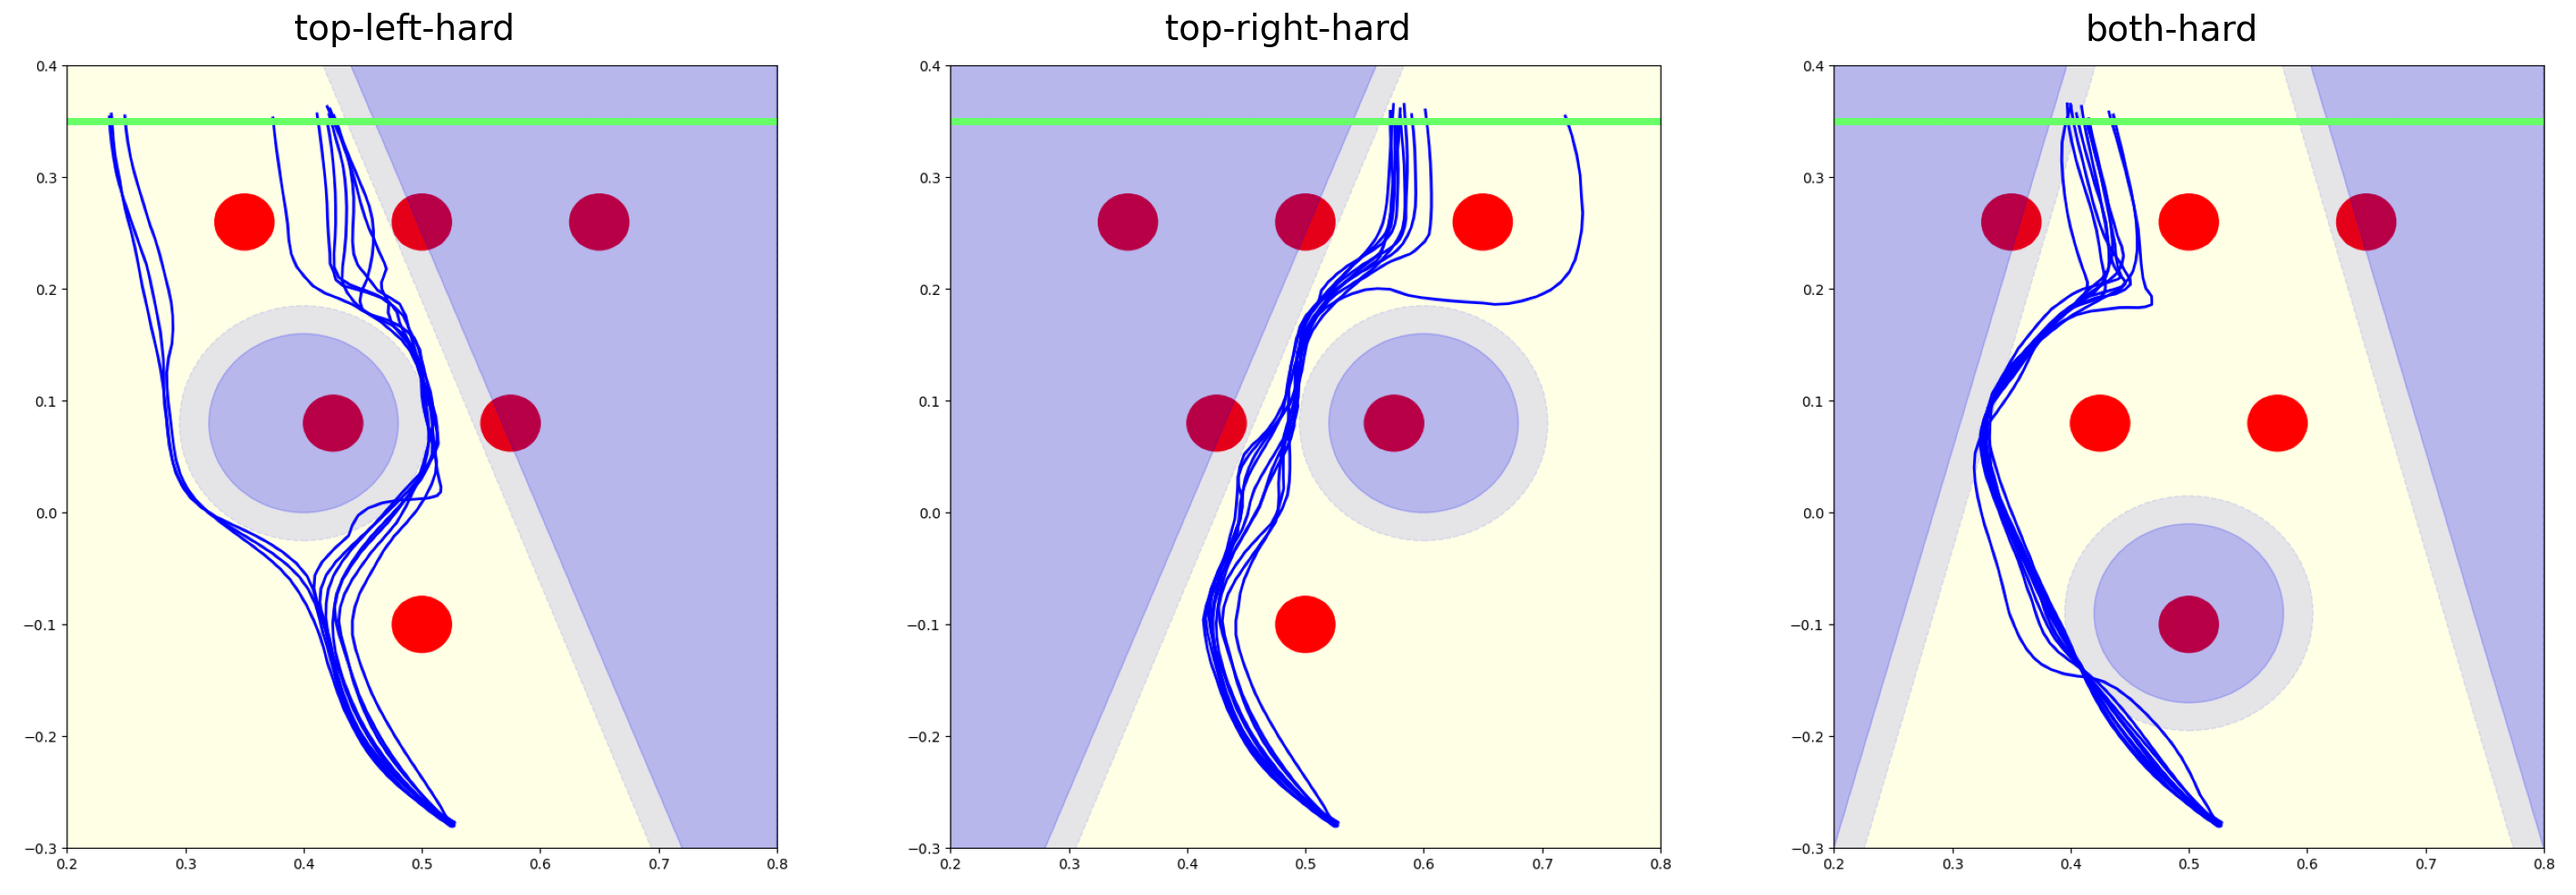
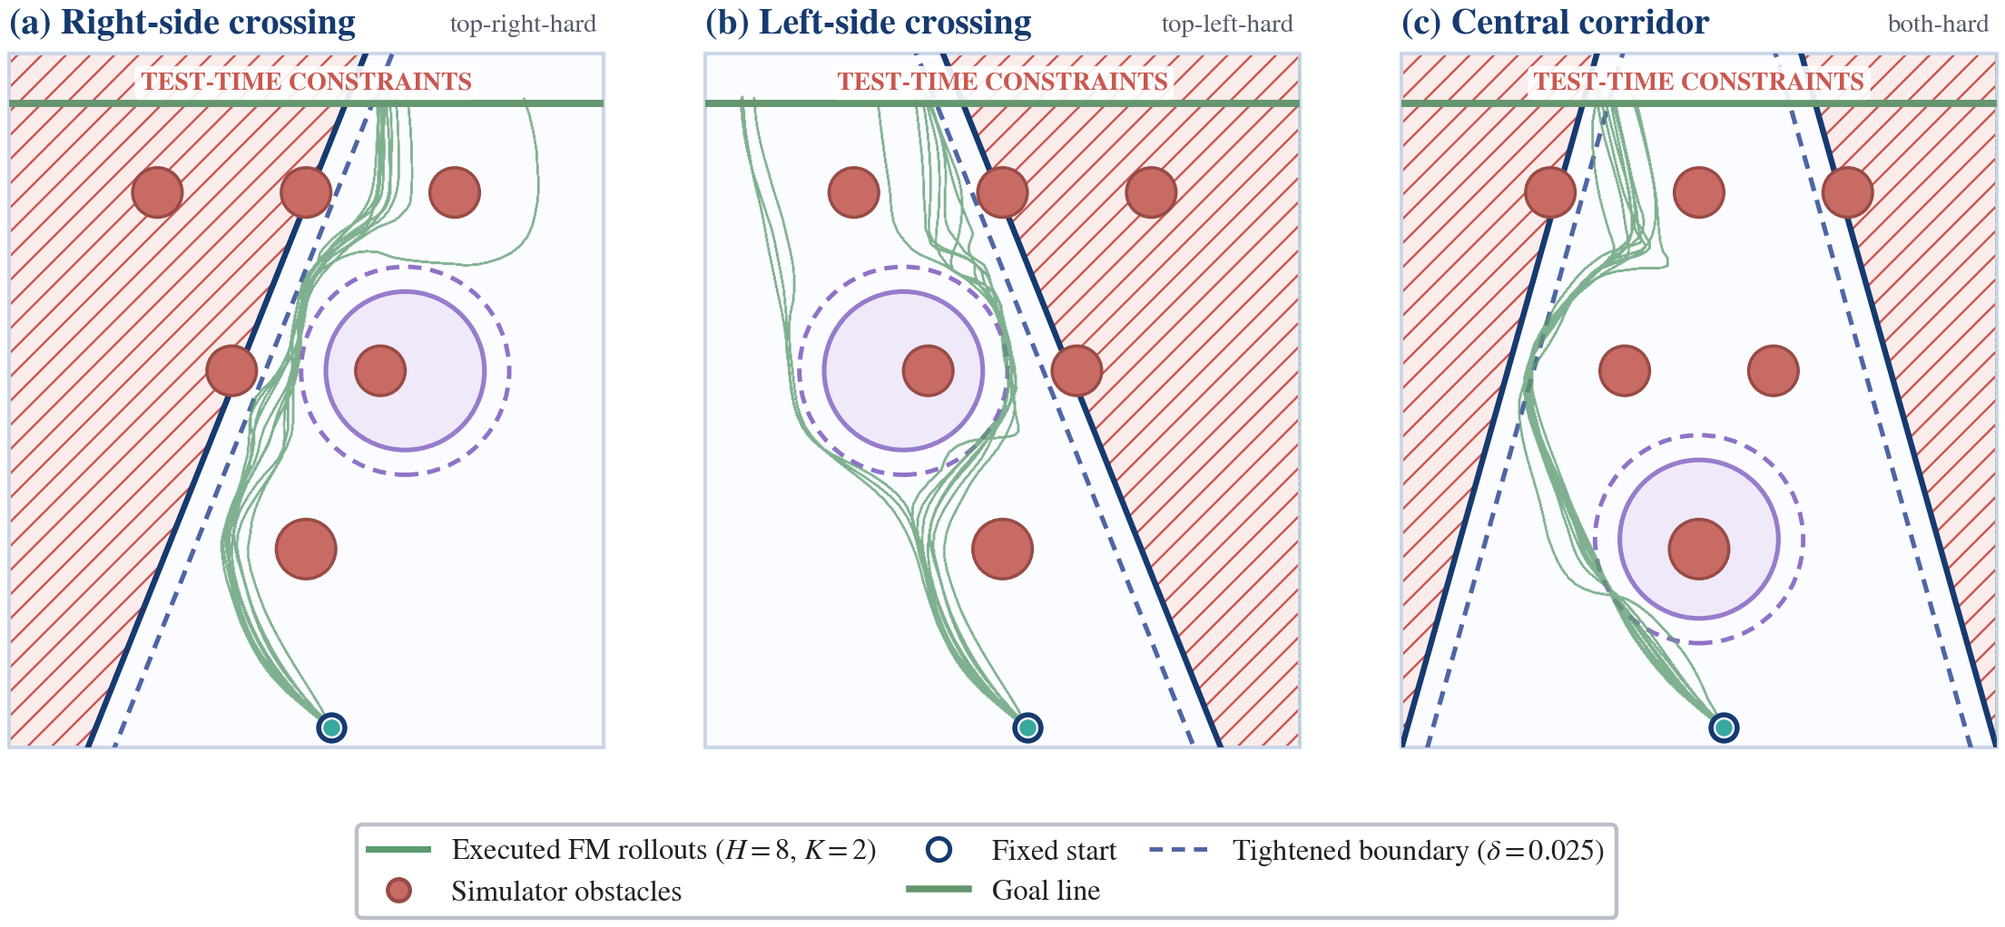
Polish thesis experiment figures

diff --git a/scripts/plot_traj_fm_k2.py b/scripts/plot_traj_fm_k2.py
@@ -1,23 +1,152 @@
-import os
+#!/usr/bin/env python
+"""Restyle the retained FM K=2 rollout traces for the three test scenes.
+
+The evaluator keeps a compact plot of up to ten executed rollouts per scene,
+but does not store the underlying trajectory arrays. This script extracts only
+the blue rollout layer from those authoritative evaluator PNGs and overlays it
+on the shared thesis geometry. It changes the visual presentation without
+inventing or interpolating new trajectories.
+"""
+
+from __future__ import annotations
+
+import argparse
+from pathlib import Path
+
 import matplotlib
-matplotlib.use('Agg')
+
+matplotlib.use("Agg")
 import matplotlib.pyplot as plt
-import matplotlib.image as mpimg
+from matplotlib.lines import Line2D
+import numpy as np
+from PIL import Image
+import yaml
 
-base = 'logs/avoiding-d3il/plans/H8_K20_Dmodels.FlowMatching/all_seeds'
-scenes = [
-    ('top-left-hard',  base + '/top-left-hard_d3il_h8_fm_k2/dpcc-c-tightened.png'),
-    ('top-right-hard', base + '/top-right-hard_d3il_h8_fm_k2/dpcc-c-tightened.png'),
-    ('both-hard',      base + '/both-hard_d3il_h8_fm_k2/dpcc-c-tightened.png'),
-]
+from avoiding_plot_style import SCENES, draw_scene, scene_legend_handles, style_environment_axis
+from thesis_plot_style import COLORS, apply_paper_style, save_figure
 
-fig, axes = plt.subplots(1, 3, figsize=(21, 7))
-for ax, (title, path) in zip(axes, scenes):
-    ax.imshow(mpimg.imread(path))
-    ax.set_title(title, fontsize=20)
-    ax.axis('off')
-plt.tight_layout()
-os.makedirs('figures', exist_ok=True)
-fig.savefig('figures/traj_fm_k2_3scenes.pdf', bbox_inches='tight')
-fig.savefig('figures/traj_fm_k2_3scenes.png', dpi=140, bbox_inches='tight')
-print('SAVED figures/traj_fm_k2_3scenes.{pdf,png}')
+
+SOURCE_AXES_PIXELS = (53, 15, 751, 785)  # left, top, right, bottom
+SOURCE_IMAGE_SIZE = (771, 819)
+
+
+def parse_args():
+    parser = argparse.ArgumentParser()
+    parser.add_argument(
+        "--source-root",
+        type=Path,
+        default=Path("logs/avoiding-d3il/plans/H8_K20_Dmodels.FlowMatching/all_seeds"),
+        help="Directory containing the evaluator's aggregate FM K=2 scene plots.",
+    )
+    parser.add_argument("--output-dir", type=Path, default=Path("figures"))
+    return parser.parse_args()
+
+
+def _source_path(source_root: Path, scene: str) -> Path:
+    return source_root / f"{scene}_d3il_h8_fm_k2" / "dpcc-c-tightened.png"
+
+
+def _rollout_layer(path: Path) -> np.ndarray:
+    """Return a transparent FM-coloured raster containing only rollout pixels."""
+    if not path.exists():
+        raise FileNotFoundError(path)
+    image = Image.open(path).convert("RGB")
+    if image.size != SOURCE_IMAGE_SIZE:
+        raise RuntimeError(
+            f"Unexpected evaluator image size {image.size} for {path}; "
+            f"expected {SOURCE_IMAGE_SIZE}. Recalibrate SOURCE_AXES_PIXELS."
+        )
+    rgb = np.asarray(image, dtype=float)
+    left, top, right, bottom = SOURCE_AXES_PIXELS
+    crop = rgb[top : bottom + 1, left : right + 1]
+
+    # Evaluator rollouts are saturated blue. Constraints are pale blue or
+    # lavender, so the additional red/green cutoff isolates the path layer.
+    red, green, blue = np.moveaxis(crop, -1, 0)
+    strength = np.clip((blue - np.maximum(red, green)) / 155.0, 0.0, 1.0)
+    strength[(blue < 180.0) | (red > 145.0) | (green > 145.0)] = 0.0
+    if np.count_nonzero(strength) < 1000:
+        raise RuntimeError(f"Failed to isolate a credible rollout layer from {path}")
+
+    fm_rgb = np.asarray(matplotlib.colors.to_rgb(COLORS["fm"]))
+    layer = np.empty((*strength.shape, 4), dtype=float)
+    layer[..., :3] = fm_rgb
+    layer[..., 3] = 0.78 * strength
+    return layer
+
+
+def main() -> None:
+    args = parse_args()
+    repo_root = Path(__file__).resolve().parents[1]
+    source_root = args.source_root
+    if not source_root.is_absolute():
+        source_root = repo_root / source_root
+    with (repo_root / "config/projection_eval.yaml").open() as stream:
+        config = yaml.safe_load(stream)
+    ax_limits = config["ax_limits"]["avoiding-d3il"]
+
+    apply_paper_style()
+    matplotlib.rcParams["hatch.color"] = "#C95850"
+    matplotlib.rcParams["hatch.linewidth"] = 0.55
+    fig, axes = plt.subplots(1, 3, figsize=(7.25, 3.25))
+    for index, (ax, (scene, title, halfspace_indices, circle_index)) in enumerate(
+        zip(axes, SCENES)
+    ):
+        style_environment_axis(ax, ax_limits)
+        draw_scene(ax, config, halfspace_indices, circle_index, ax_limits)
+        layer = _rollout_layer(_source_path(source_root, scene))
+        ax.imshow(
+            layer,
+            extent=(*ax_limits[0], *ax_limits[1]),
+            origin="upper",
+            interpolation="bilinear",
+            aspect="auto",
+            zorder=6,
+        )
+        ax.set_aspect("equal", adjustable="box")
+        panel = chr(ord("a") + index)
+        ax.set_title(f"({panel}) {title}", loc="left", pad=5, color="#163A70")
+        ax.text(
+            0.99,
+            1.025,
+            scene,
+            transform=ax.transAxes,
+            ha="right",
+            va="bottom",
+            fontsize=6.5,
+            color=COLORS["secondary_text"],
+        )
+
+    rollout_handle = Line2D(
+        [0],
+        [0],
+        color=COLORS["fm"],
+        linewidth=1.6,
+        label=r"Executed FM rollouts ($H=8$, $K=2$)",
+    )
+    geometry_handles = scene_legend_handles()
+    handles = [
+        rollout_handle,
+        geometry_handles[0],
+        geometry_handles[1],
+        geometry_handles[2],
+        geometry_handles[5],
+    ]
+    fig.legend(
+        handles=handles,
+        loc="lower center",
+        bbox_to_anchor=(0.5, 0.008),
+        ncol=3,
+        borderpad=0.4,
+        handlelength=2.0,
+        columnspacing=1.1,
+        labelspacing=0.45,
+    )
+    fig.subplots_adjust(left=0.025, right=0.99, bottom=0.205, top=0.94, wspace=0.09)
+    save_figure(fig, args.output_dir, "traj_fm_k2_3scenes")
+    plt.close(fig)
+    print(f"Restyled retained FM K=2 rollout traces from {source_root}")
+
+
+if __name__ == "__main__":
+    main()

diff --git a/scripts/plot_thesis_results.py b/scripts/plot_thesis_results.py
@@ -11,6 +11,7 @@ import matplotlib
 matplotlib.use("Agg")
 import matplotlib.pyplot as plt
 from matplotlib.lines import Line2D
+from matplotlib.patches import Patch
 import numpy as np
 
 from thesis_plot_style import (
@@ -79,7 +80,13 @@ def main_sweep(base: Path):
 def plot_main_results(base: Path, output_dir: Path) -> None:
     values = main_sweep(base)
     apply_paper_style()
-    fig, axes = plt.subplots(2, 2, figsize=(7.25, 5.2), sharex="col")
+    fig, axes = plt.subplots(
+        2,
+        2,
+        figsize=(7.25, 5.2),
+        sharex="col",
+        sharey="row",
+    )
     x = np.arange(len(KS))
     method_style = {
         "fm": dict(color=COLORS["fm"], fill=COLORS["fm_fill"], marker="o", linestyle="-"),
@@ -173,26 +180,27 @@ def plot_main_results(base: Path, output_dir: Path) -> None:
     panel_label(axes[0, 1], "(b)")
     panel_label(axes[1, 0], "(c)")
     panel_label(axes[1, 1], "(d)")
+    selected_handle = Line2D(
+        [0],
+        [0],
+        marker="o",
+        markersize=7.5,
+        markerfacecolor="none",
+        markeredgecolor=COLORS["accent"],
+        markeredgewidth=1.15,
+        linestyle="none",
+        label="Selected operating point",
+    )
     fig.legend(
-        handles=method_legend_handles(),
+        handles=[*method_legend_handles(), selected_handle],
         loc="upper center",
         bbox_to_anchor=(0.5, 1.015),
-        ncol=2,
+        ncol=3,
         borderpad=0.35,
         handlelength=2.4,
         columnspacing=1.4,
     )
-    fig.text(
-        0.985,
-        0.505,
-        "Shading: $\pm$1 sample SD across three training seeds",
-        rotation=90,
-        va="center",
-        ha="right",
-        fontsize=6.7,
-        color=COLORS["secondary_text"],
-    )
-    fig.subplots_adjust(left=0.105, right=0.95, bottom=0.105, top=0.9, wspace=0.25, hspace=0.16)
+    fig.subplots_adjust(left=0.105, right=0.985, bottom=0.105, top=0.9, wspace=0.2, hspace=0.16)
     save_figure(fig, output_dir, "main_results_k_sweep")
     plt.close(fig)
 
@@ -266,24 +274,21 @@ def plot_projection_window(base: Path, output_dir: Path) -> None:
 
     panel_label(axes[0], "(a)")
     panel_label(axes[1], "(b)")
-    axes[0].text(
-        3,
-        97.5,
-        "default window",
-        ha="center",
-        va="top",
-        fontsize=6.8,
-        color=COLORS["accent"],
-    )
     handles = [
         Line2D([0], [0], color=COLORS["ddpm"], marker="s", markerfacecolor="white", label="Mean"),
         Line2D([0], [0], color=COLORS["light_axis"], marker="o", markerfacecolor="white", label="Training seed"),
+        Patch(
+            facecolor=COLORS["accent_fill"],
+            edgecolor="none",
+            alpha=0.35,
+            label=r"Default window ($q=0.5$)",
+        ),
     ]
     fig.legend(
         handles=handles,
         loc="upper center",
         bbox_to_anchor=(0.5, 1.035),
-        ncol=2,
+        ncol=3,
         borderpad=0.35,
         handlelength=2.2,
         columnspacing=1.4,
